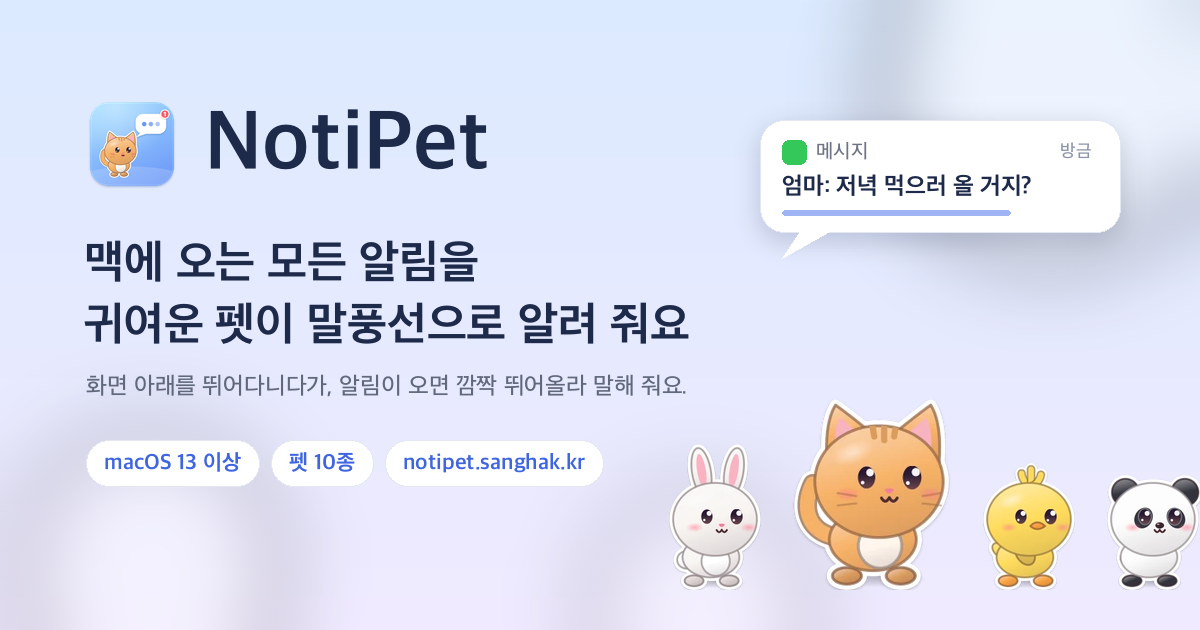
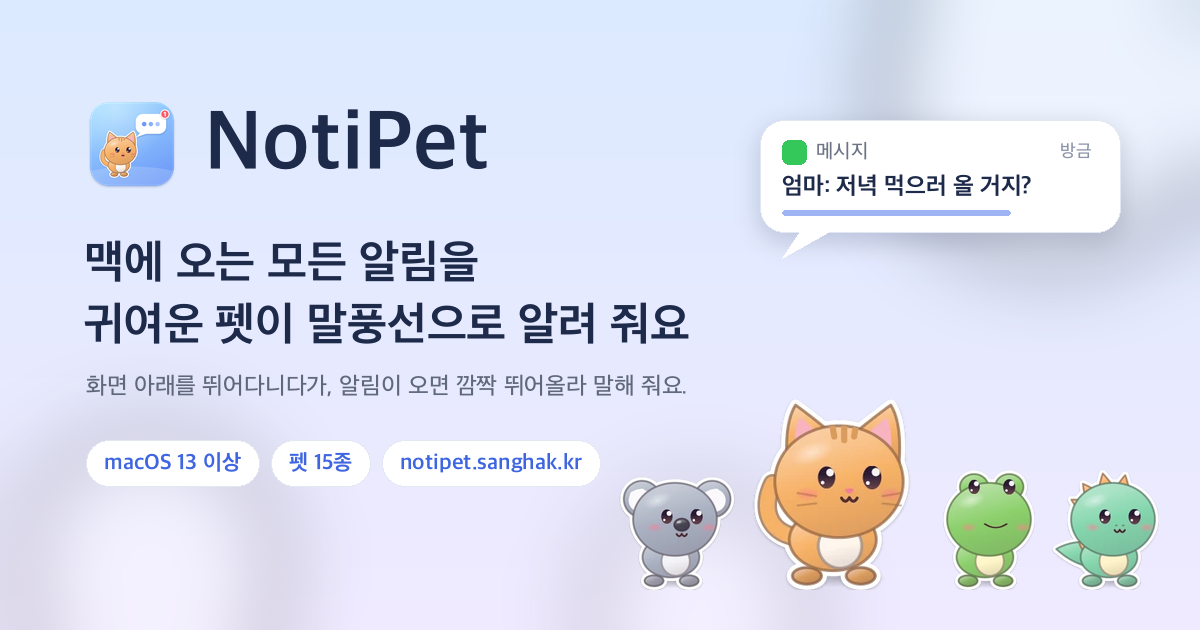
2.2.0 새 펫 5종을 소개 페이지·README에
- 펫 고르기에 코알라·개구리·아기양·레서판다·아기공룡 (NEW · 2점대 표시), 스프라이트 시트 추가.
- "펫 10종" → 15종. 가격 안내·FAQ에 1점대 10종 / 2점대 15종 차이를 적었다.
- 공유 이미지(og.png)와 README 새 펫 그림, 버전 표에 2.2.0.

Changed region(s): [[0.4933, 0.6333, 1.0, 0.9349], [0.2467, 0.7238, 0.4933, 0.754]]

diff --git a/site/index.html b/site/index.html
@@ -4,7 +4,7 @@
   <meta charset="utf-8">
   <meta name="viewport" content="width=device-width, initial-scale=1">
   <title>NotiPet — 맥 알림을 귀여운 펫이 말풍선으로</title>
-  <meta name="description" content="맥에 오는 모든 알림을 귀여운 펫이 말풍선으로 알려 줘요. 펫 10종, 크기·색 조정, 말풍선을 누르면 바로 그 앱으로.">
+  <meta name="description" content="맥에 오는 모든 알림을 귀여운 펫이 말풍선으로 알려 줘요. 펫 15종, 크기·색 조정, 말풍선을 누르면 바로 그 앱으로.">
   <meta name="theme-color" content="#5C84F6">
   <link rel="icon" type="image/png" href="img/favicon.png">
   <link rel="apple-touch-icon" href="img/apple-touch-icon.png">
@@ -50,7 +50,7 @@
         <ul class="chips">
           <li>macOS 13 이상</li>
           <li>Apple 실리콘 · Intel</li>
-          <li>펫 10종</li>
+          <li>펫 15종</li>
           <li class="paid">2.0부터 유료 · 키 필요</li>
         </ul>
       </div>
@@ -82,12 +82,12 @@
         </article>
         <article class="card">
           <div class="art art-peach trio">
-            <img src="img/pets/bunny.webp" alt="" loading="lazy">
+            <img src="img/pets/koala.webp" alt="" loading="lazy">
             <img src="img/pets/cat.webp" alt="" loading="lazy">
-            <img src="img/pets/panda.webp" alt="" loading="lazy">
+            <img src="img/pets/dino.webp" alt="" loading="lazy">
           </div>
-          <h3>펫 10종</h3>
-          <p>고양이부터 아기돼지까지 마음에 드는 친구를 골라요</p>
+          <h3>펫 15종 <small>2.2 NEW 5종</small></h3>
+          <p>고양이부터 아기공룡까지 마음에 드는 친구를 골라요</p>
         </article>
         <article class="card">
           <div class="art art-lilac trio tint">
@@ -112,7 +112,7 @@
     <!-- 펫 고르기 + 색 바꾸기 -->
     <section class="section" id="pets">
       <h2 class="section-title">누구랑 지낼래요?</h2>
-      <p class="section-lead">누르면 위 화면의 펫이 그 친구로 바뀌어요. 앱에서는 <b>펫 설정</b> 창에서 종류·크기·색을 골라요.</p>
+      <p class="section-lead">누르면 위 화면의 펫이 그 친구로 바뀌어요. <b>2.2부터 코알라·개구리·아기양·레서판다·아기공룡</b>이 새로 들어왔어요 (2점대 전용).</p>
       <div class="tuner">
         <label>색조 <input type="range" id="hue" min="0" max="360" value="0"></label>
         <label>채도 <input type="range" id="sat" min="0" max="200" value="100"></label>
@@ -197,11 +197,11 @@
       <div class="price-notes">
         <div class="note paid">
           <b>🔑 2.0부터 유료예요</b>
-          <p>키가 있어야 실행돼요. 아래 <a href="#buy">구매 신청</a>에 <b>이메일 주소</b>를 남겨 주시면, 확인 후 그 이메일 전용 키를 보내 드려요.</p>
+          <p><b>펫 15종</b> — 2.2에서 새 펫 5종(코알라·개구리·아기양·레서판다·아기공룡)이 들어왔어요. 키가 있어야 실행되고, 아래 <a href="#buy">구매 신청</a>에 <b>이메일 주소</b>를 남겨 주시면 그 이메일 전용 키를 보내 드려요.</p>
         </div>
         <div class="note free">
           <b>🆓 1점대는 무료예요</b>
-          <p>키 없이 바로 쓸 수 있어요. 기능은 펫 10종·설정 창까지 다 들어 있어요.</p>
+          <p>키 없이 바로 쓸 수 있어요. <b>펫 10종</b>과 설정 창(크기·색)이 들어 있어요.</p>
         </div>
       </div>
       <form class="buy" id="buy" novalidate>
@@ -231,7 +231,7 @@
         </details>
         <details>
           <summary>무료로 쓸 수는 없나요?</summary>
-          <p>1점대 버전은 키 없이 무료예요. <a href="#download">내려받기</a> 목록에서 1점대를 받으세요.</p>
+          <p>1점대 버전은 키 없이 무료예요(펫 10종). <a href="#download">내려받기</a> 목록에서 1점대를 받으세요. 2.2부터 들어온 새 펫 5종은 2점대에만 있어요.</p>
         </details>
         <details>
           <summary>말풍선이 알림 배너보다 조금 늦게 떠요</summary>

diff --git a/site/app.js b/site/app.js
@@ -19,6 +19,8 @@ const F = { walk: 0, air: 12, land: 13, happy: 14, talk: 22, sleep: 30 };
 const PETS = [
   ["cat", "고양이"], ["dog", "강아지"], ["bunny", "토끼"], ["chick", "병아리"], ["panda", "판다"],
   ["bear", "곰돌이"], ["fox", "여우"], ["penguin", "펭귄"], ["hamster", "햄스터"], ["pig", "아기돼지"],
+  // 2.2.0에서 추가 (2점대 전용)
+  ["koala", "코알라", true], ["frog", "개구리", true], ["sheep", "아기양", true], ["redPanda", "레서판다", true], ["dino", "아기공룡", true],
 ];
 const sheet = (id) => `url(img/pets/${id}-sheet.webp)`;
 const preload = (id) => { const i = new Image(); i.src = `img/pets/${id}-sheet.webp`; };
@@ -226,12 +228,12 @@ setInterval(paintClock, 20000);
 
 // ---------- 펫 고르기 ----------
 const grid = $("#pet-grid");
-PETS.forEach(([id, name]) => {
+PETS.forEach(([id, name, isNew]) => {
   const btn = document.createElement("button");
   btn.type = "button";
   btn.className = "pet-card";
   btn.setAttribute("aria-pressed", String(id === pet.id));
-  btn.innerHTML = `<div class="sprite"></div><b>${name}</b>`;
+  btn.innerHTML = `<div class="sprite"></div><b>${name}</b>${isNew ? '<span class="new-badge">NEW · 2점대</span>' : ""}`;
   const sp = btn.firstElementChild;
   sp.style.backgroundImage = `url(img/pets/${id}.webp)`;
   sp.style.backgroundSize = "100% 100%";
@@ -292,11 +294,13 @@ const REPO = "sanghakbae/Noti-Pet";
 const DL = (v) => `https://github.com/${REPO}/releases/download/v${v}/NotiPet-${v}.dmg`;
 // GitHub에 연결되지 않을 때 보여 줄 목록
 const FALLBACK = [
+  { v: "2.2.0", date: "2026-09-25", url: DL("2.2.0"), size: 1609260 },
   { v: "2.1.0", date: "2026-09-25", url: DL("2.1.0"), size: 1665460 },
   { v: "1.3.0", date: "2026-09-24", url: DL("1.3.0"), size: 1618356 },
   { v: "1.2.0", date: "2026-09-24", url: DL("1.2.0"), size: 1632413 },
 ];
 const WHAT = {
+  "2.2.0": "새 펫 5종: 코알라·개구리·아기양·레서판다·아기공룡 (2점대 전용)",
   "2.1.0": "키가 구매자 이메일에 묶여요. 입력 창에서 이메일과 키를 함께 넣어요",
   "1.3.0": "토끼 귀·병아리 깃털 끝이 잘려 보이던 문제를 고쳤어요",
   "1.2.0": "첫 공개 · 펫 10종, 펫 설정 창(종류·크기·색)",

diff --git a/site/style.css b/site/style.css
@@ -191,6 +191,7 @@ main { width: 100%; padding: 0 var(--gutter); }
 .pet-card[aria-pressed=true] { border-color: var(--blue); }
 .pet-card .sprite { width: 104px; height: 104px; margin: 0 auto; background-repeat: no-repeat; background-size: calc(104px * 31) 104px; transform: scale(var(--scale, 1)); transform-origin: bottom center; filter: hue-rotate(var(--hue, 0deg)) saturate(var(--sat, 1)); transition: transform .2s; }
 .pet-card b { display: block; margin-top: 4px; font-size: 15px; }
+.new-badge { position: absolute; top: 6px; right: 6px; padding: 1px 6px; border-radius: 999px; background: #ff7366; color: #fff; font-size: 10px; font-weight: 800; letter-spacing: .02em; }
 
 .split { display: grid; grid-template-columns: minmax(0, 1fr) minmax(0, 1fr); gap: 32px; align-items: center; margin-top: 40px; }
 .shot { width: 100%; height: auto; filter: drop-shadow(0 18px 30px rgba(30, 50, 110, .16)); }

diff --git a/README.md b/README.md
@@ -32,6 +32,10 @@
   <img src="images/pets.gif" width="720" alt="펫 10종: 고양이, 강아지, 토끼, 병아리, 판다, 곰돌이, 여우, 펭귄, 햄스터, 아기돼지">
 </p>
 
+<p align="center">
+  <img src="images/new-pets.png" width="720" alt="2.2 새 친구 5종 (2점대 전용): 코알라, 개구리, 아기양, 레서판다, 아기공룡">
+</p>
+
 <br>
 
 ## ⬇ 설치는 3단계
@@ -53,7 +57,8 @@
 
 | 버전 | 가격 | 바뀐 점 | 내려받기 |
 | :-- | :-- | :-- | :-- |
-| **2.1.0** (최신) | 🔑 유료 · 키 필요 | 키가 구매자 이메일에 묶여요. 입력 창에서 이메일과 키를 함께 넣어요 | [NotiPet-2.1.0.dmg](https://github.com/sanghakbae/Noti-Pet/releases/download/v2.1.0/NotiPet-2.1.0.dmg) |
+| **2.2.0** (최신) | 🔑 유료 · 키 필요 | **새 펫 5종**: 코알라·개구리·아기양·레서판다·아기공룡 (펫 15종) | [NotiPet-2.2.0.dmg](https://github.com/sanghakbae/Noti-Pet/releases/download/v2.2.0/NotiPet-2.2.0.dmg) |
+| 2.1.0 | 🔑 유료 · 키 필요 | 키가 구매자 이메일에 묶여요. 입력 창에서 이메일과 키를 함께 넣어요 | [NotiPet-2.1.0.dmg](https://github.com/sanghakbae/Noti-Pet/releases/download/v2.1.0/NotiPet-2.1.0.dmg) |
 | 1.3.0 | 🆓 무료 | 토끼 귀·병아리 깃털 끝이 잘려 보이던 문제를 고쳤어요 | [NotiPet-1.3.0.dmg](https://github.com/sanghakbae/Noti-Pet/releases/download/v1.3.0/NotiPet-1.3.0.dmg) |
 | 1.2.0 | 🆓 무료 | 첫 공개 · 펫 10종, 펫 설정 창(종류·크기·색) | [NotiPet-1.2.0.dmg](https://github.com/sanghakbae/Noti-Pet/releases/download/v1.2.0/NotiPet-1.2.0.dmg) |
 
